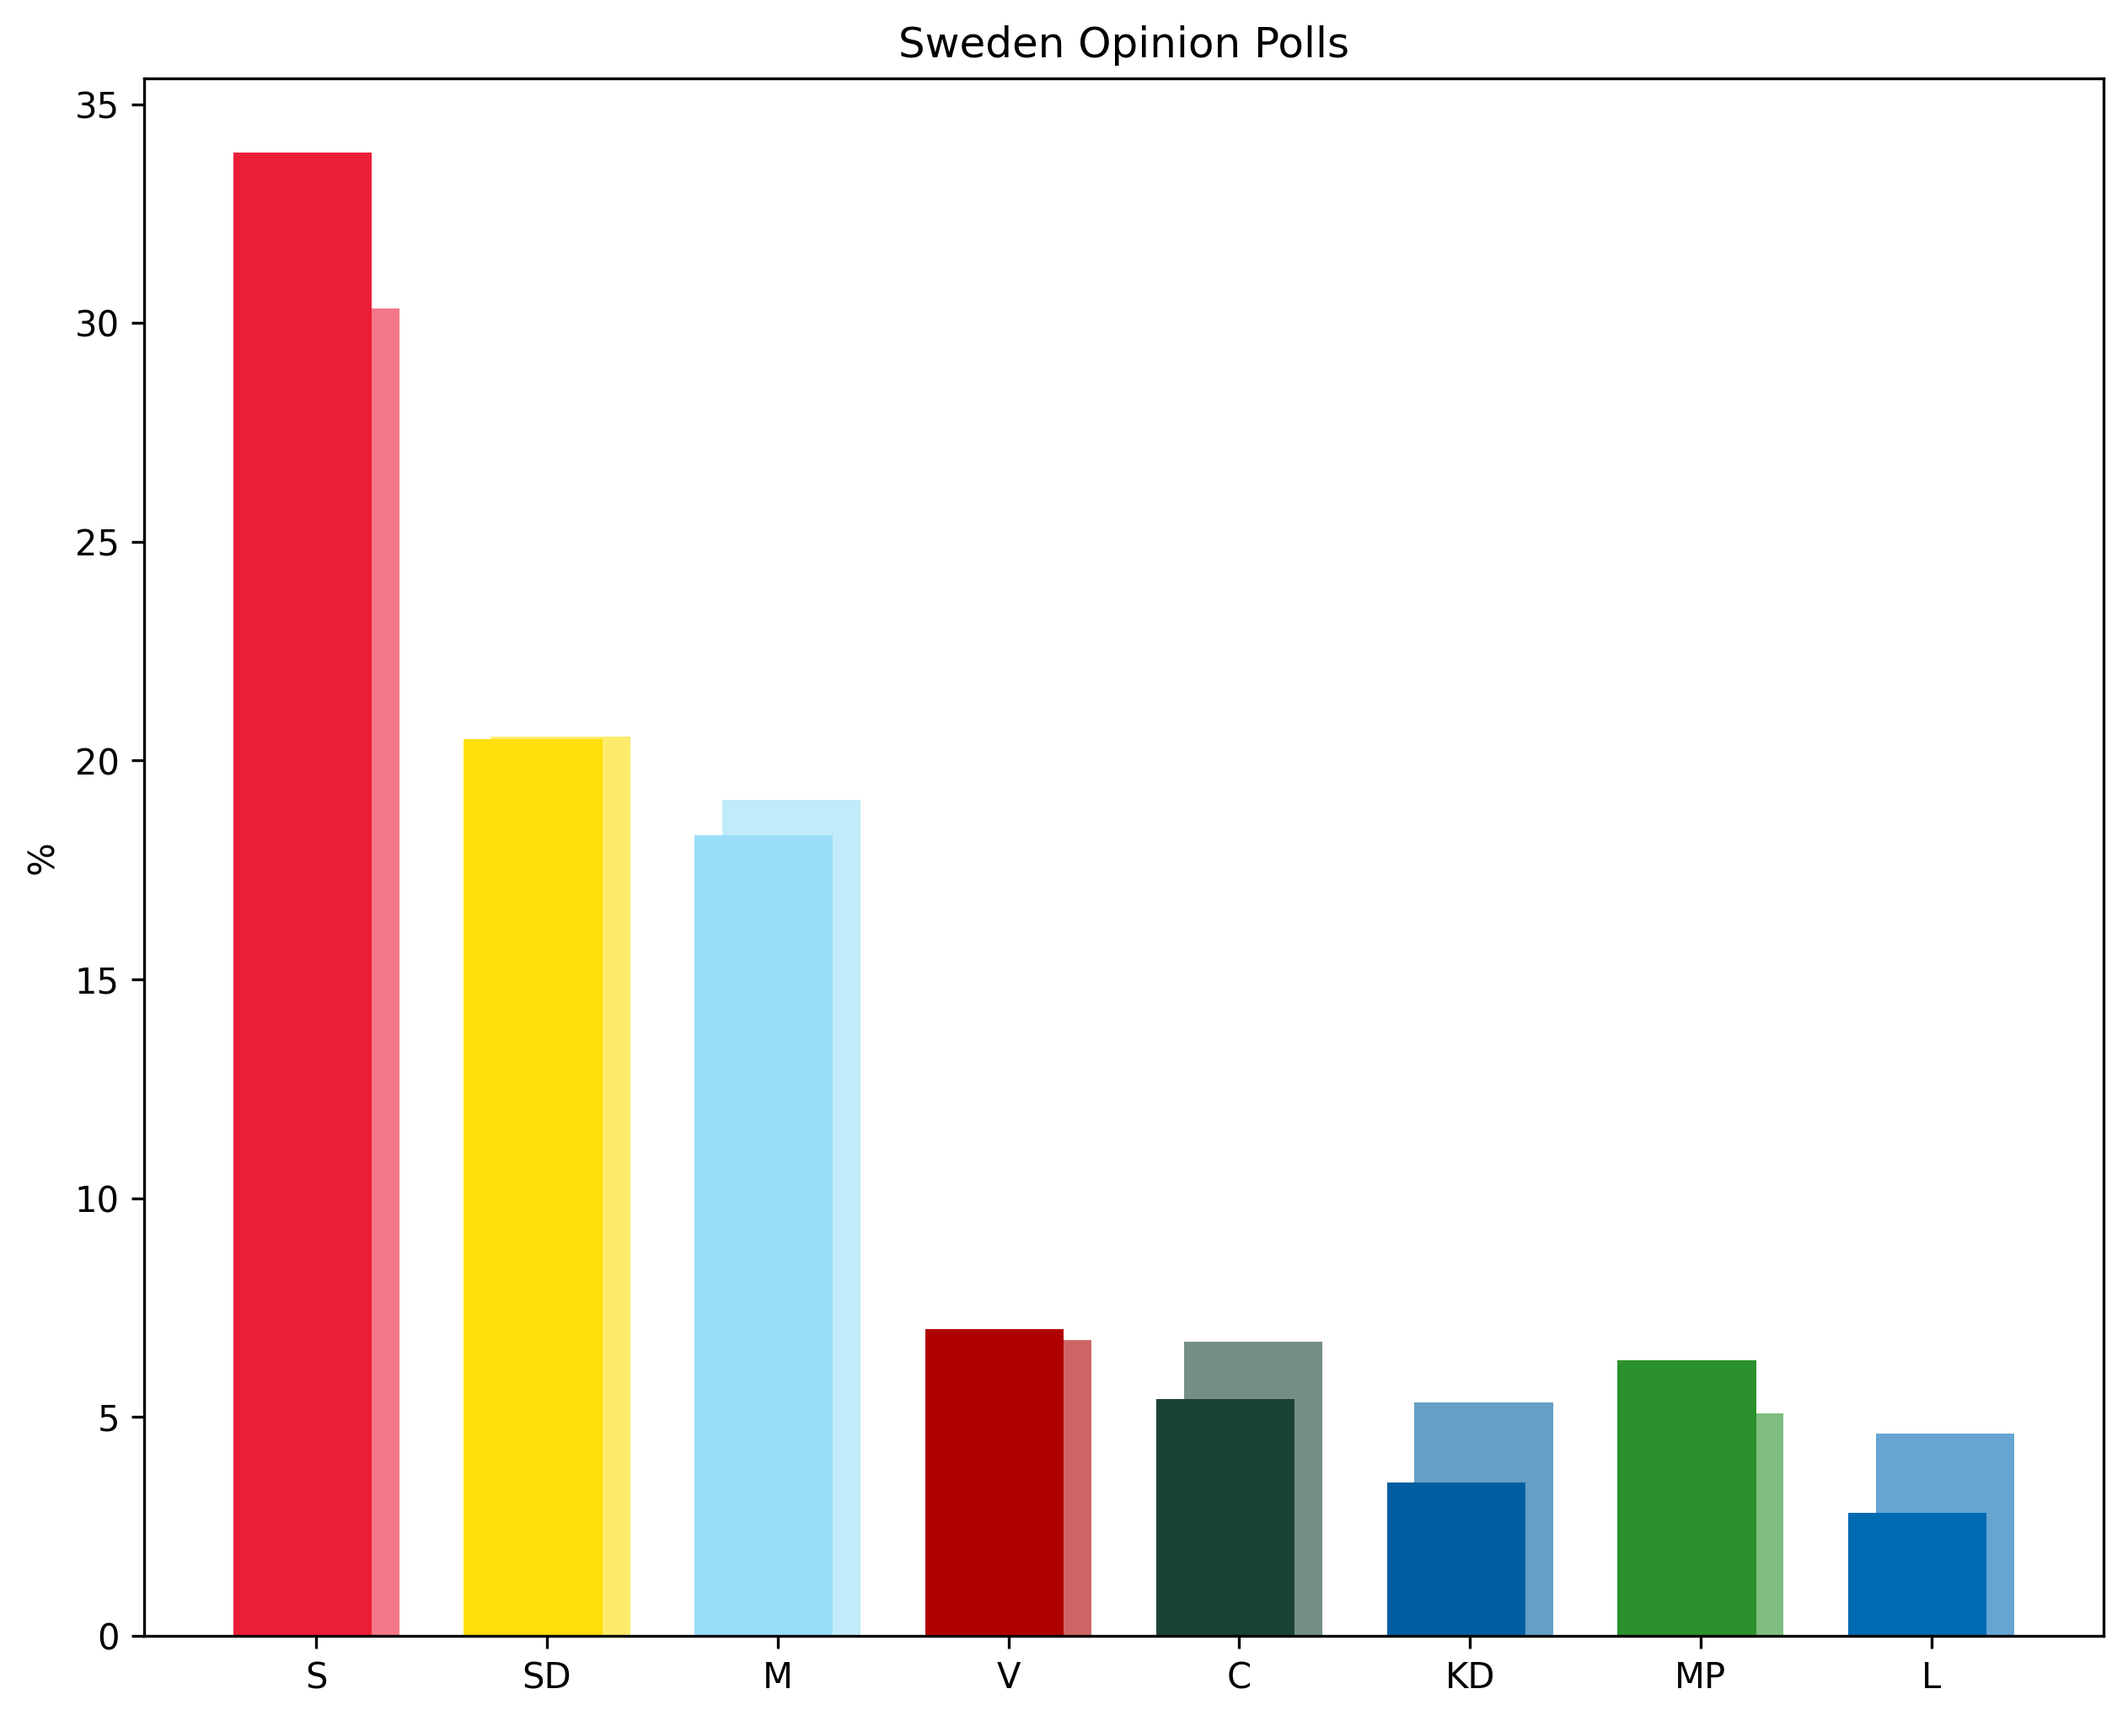
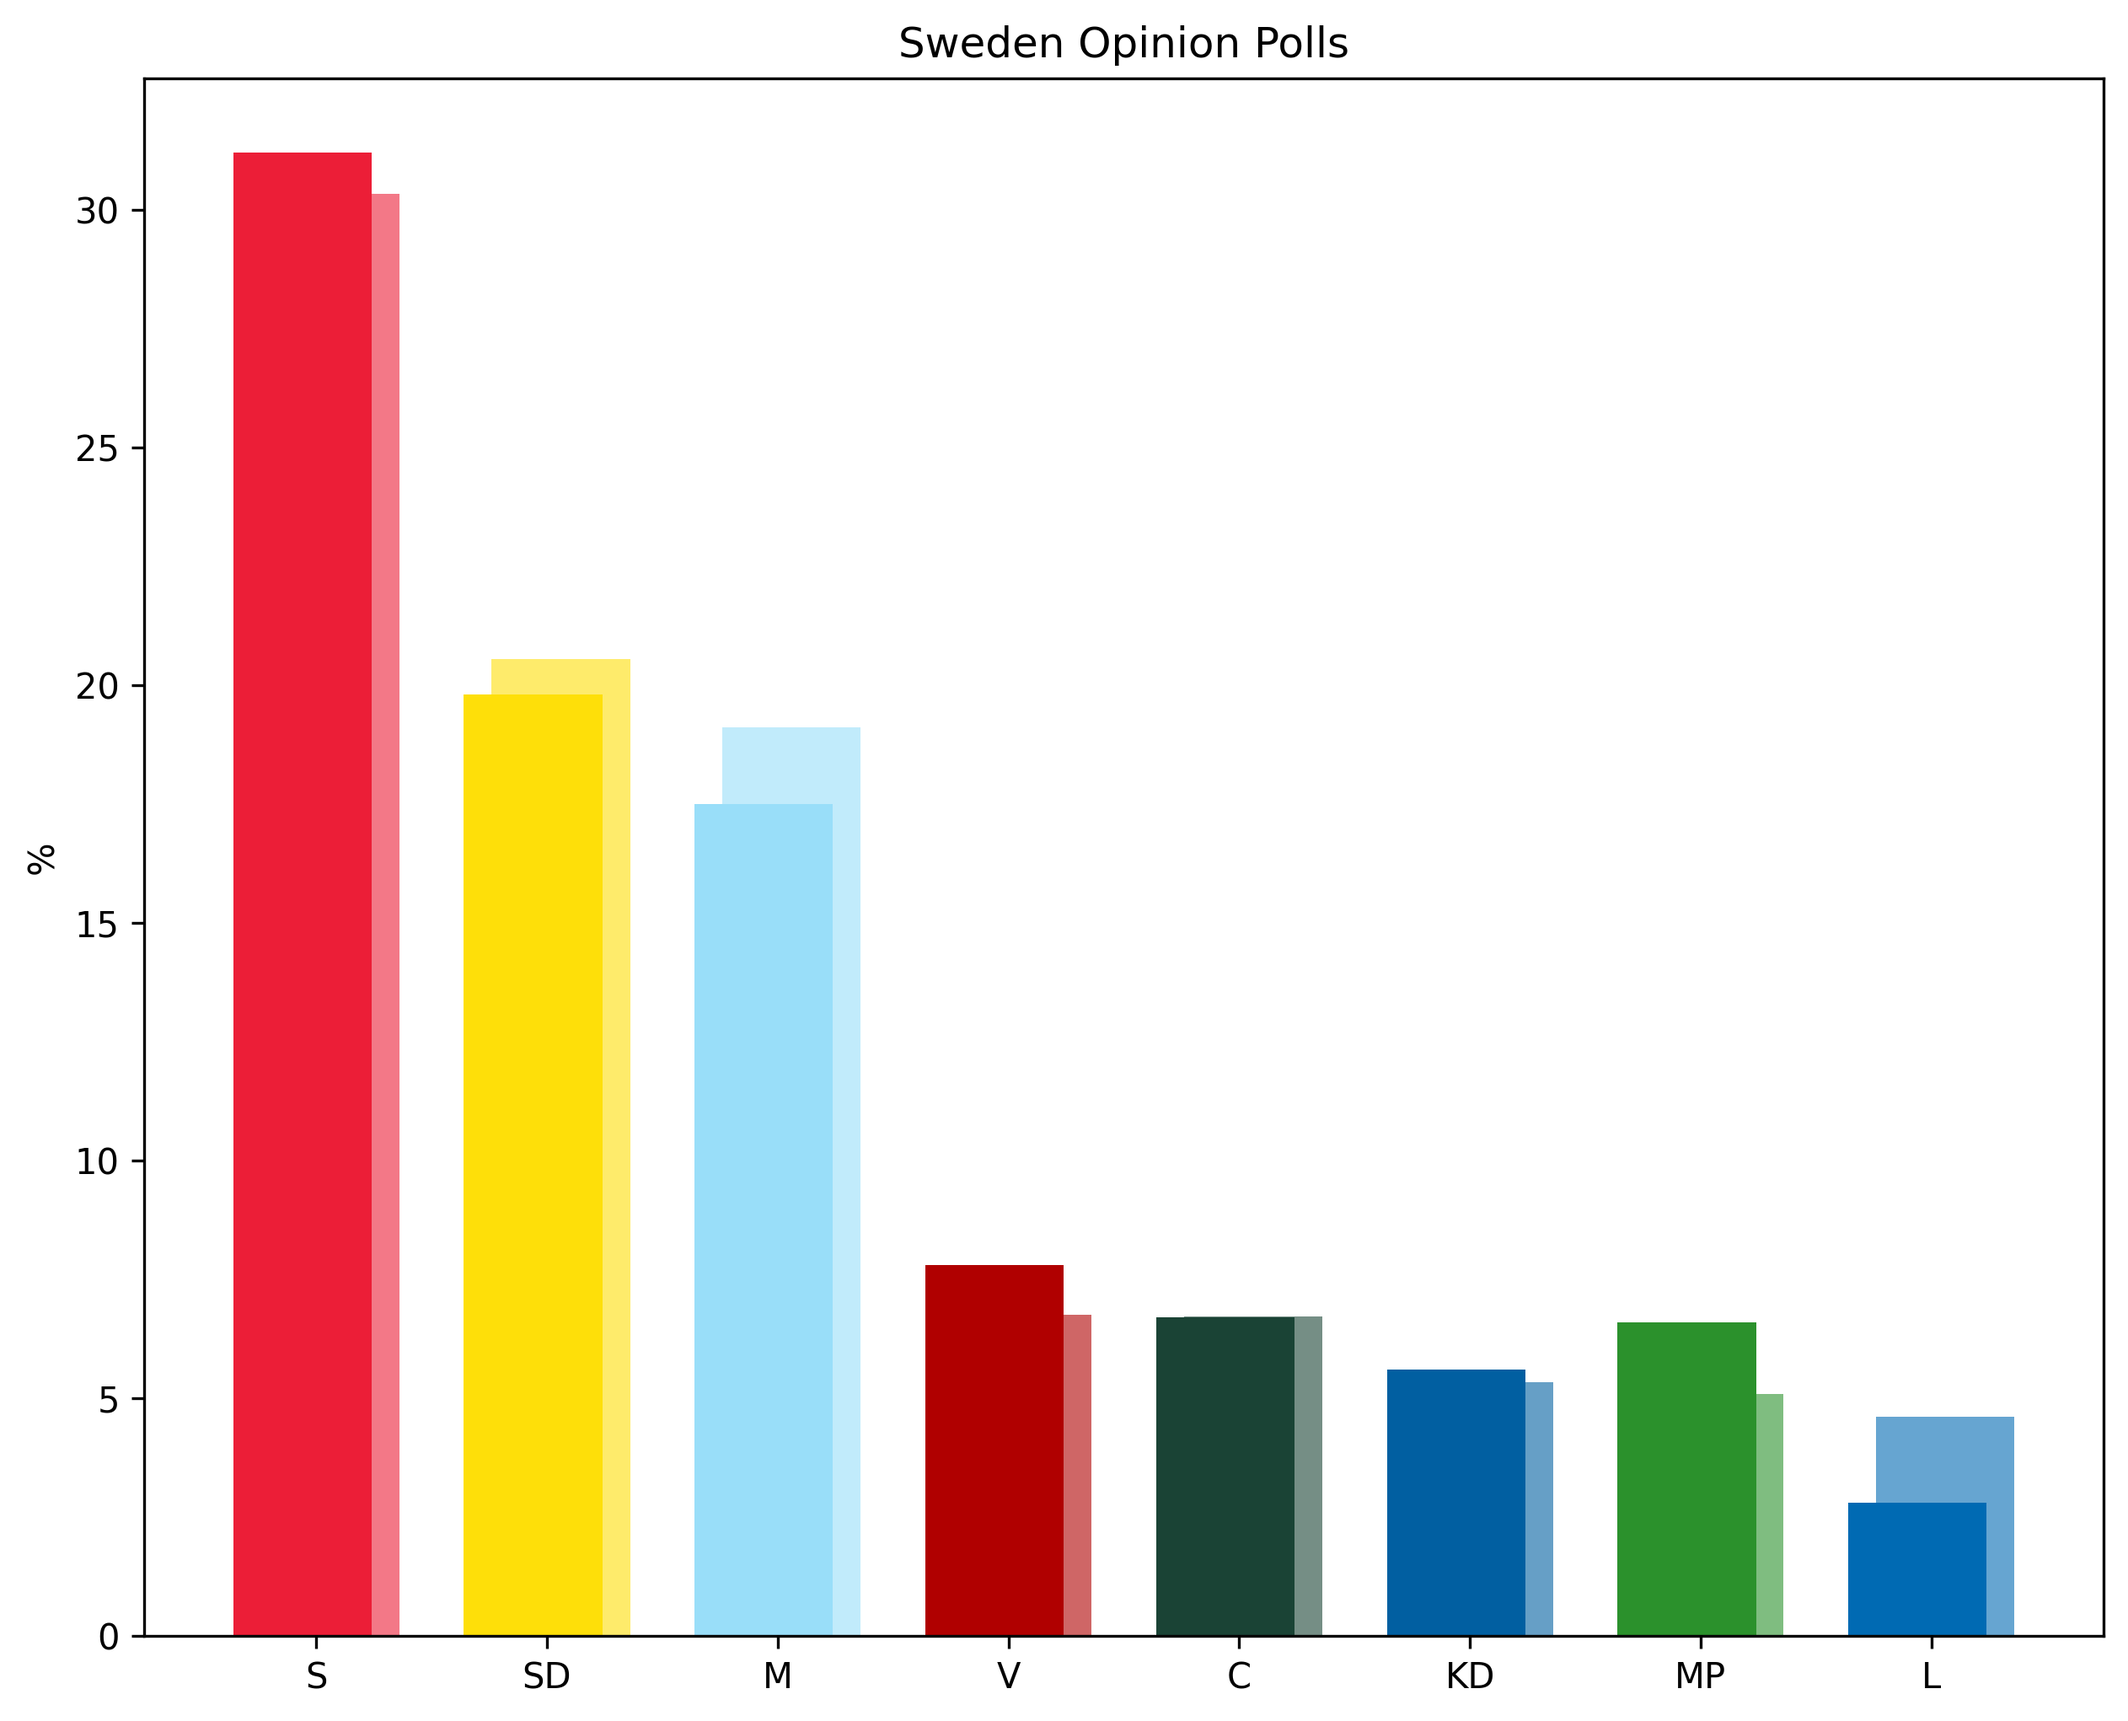
Updated Sweden

diff --git a/Europe/NorthEurope/Sweden.py b/Europe/NorthEurope/Sweden.py
@@ -2,7 +2,7 @@ import matplotlib.pyplot as plt
 import numpy as np
 
 parties = ['S', 'SD', 'M', 'V', 'C', 'KD', 'MP', 'L']
-polling_2025 = [33.9, 20.5, 18.3, 7.0, 5.4, 3.5, 6.3, 2.8]
+polling_2026 = [31.2, 19.8, 17.5, 7.8, 6.7, 5.6, 6.6, 2.8]
 election_2022 = [30.33, 20.54, 19.10, 6.75, 6.71, 5.34, 5.08, 4.61]
 
 poll_colors = ['#ec1e37', '#fedf09', '#99def9', '#b00000', '#1a4335', '#015fa1', '#2b912c', '#006ab3']
@@ -13,7 +13,7 @@ width = 0.6
 
 fig, ax = plt.subplots(figsize=(10, 8))
 ax.bar(x + width/10, election_2022, width=width, color=election_colors, label='2022 Election')
-ax.bar(x - width/10, polling_2025, width=width, color=poll_colors, label='August 2025 Polling')
+ax.bar(x - width/10, polling_2026, width=width, color=poll_colors, label='September 2026 Polling')
 
 ax.set_ylabel('%')
 ax.set_xticks(x)
